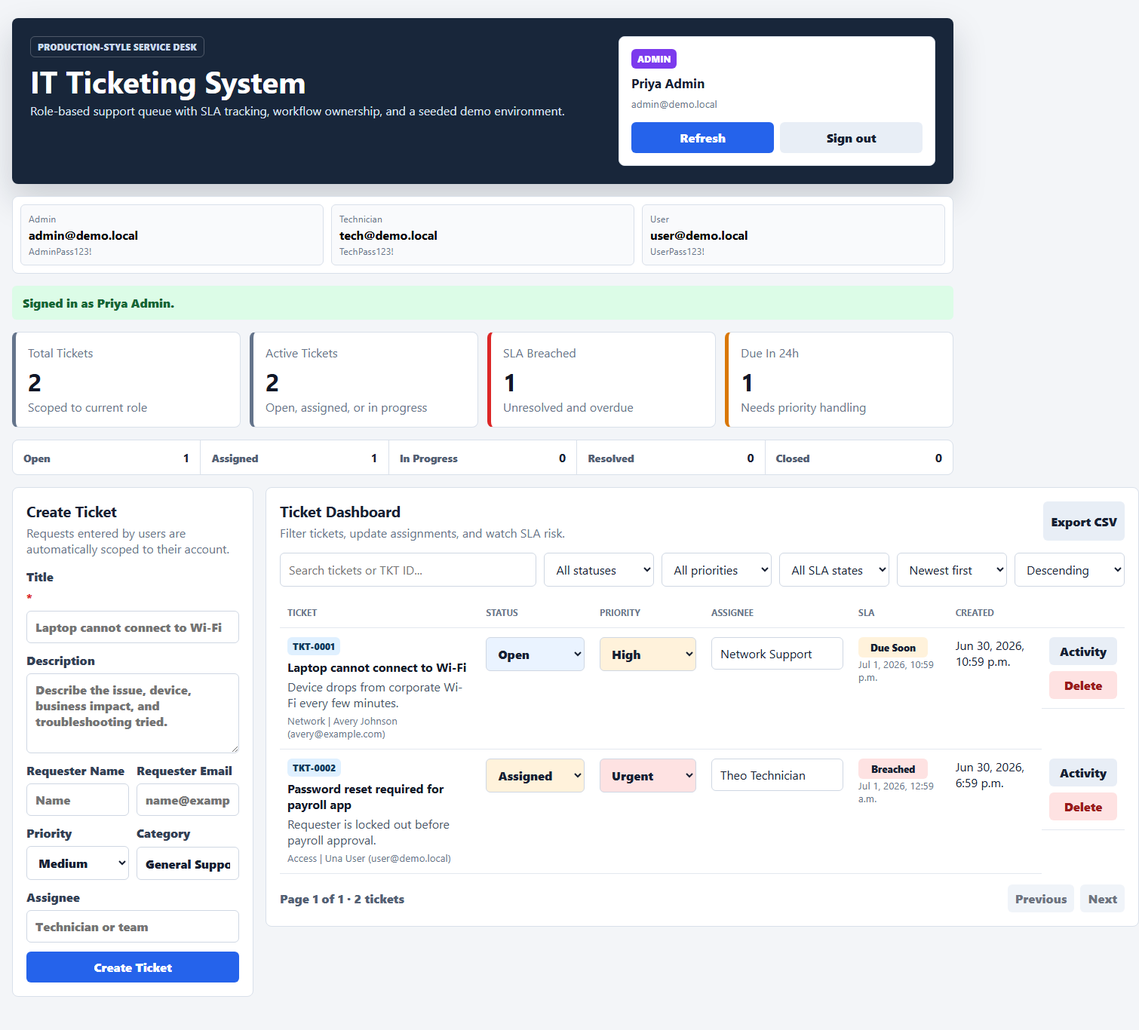
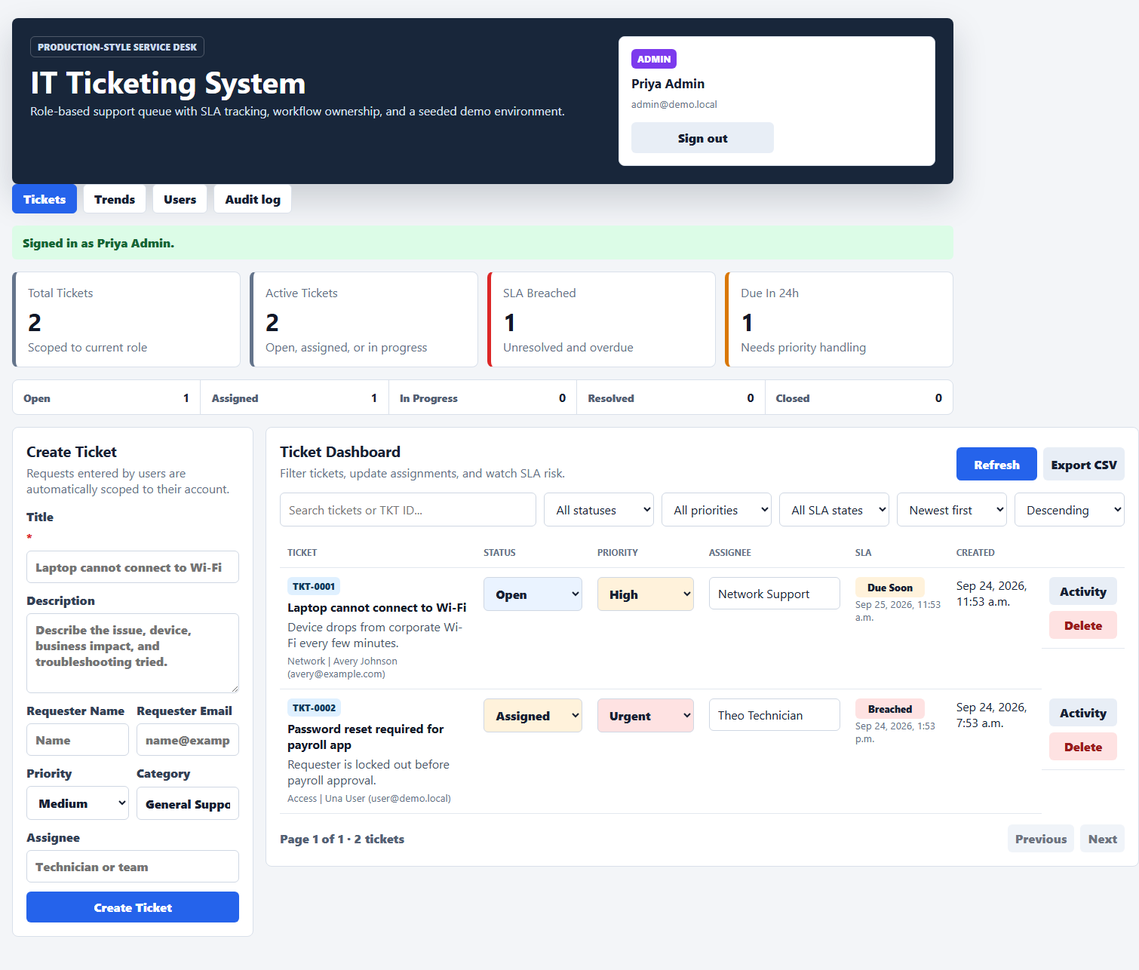
docs: README rewrite with an animated demo, measured numbers and current screenshots; v2.0.0
The demo is built from Playwright screenshots (scripts/make-demo-gif.py), so it needs no
screen recorder. Screenshots now include trends and a ticket with comments. Version 2.0.0.

diff --git a/tests/visual/capture-demo-frames.spec.ts b/tests/visual/capture-demo-frames.spec.ts
@@ -1,0 +1,63 @@
+import { expect } from '@playwright/test';
+import { test } from '../fixtures/app.fixture';
+
+// The frames of the README's animated demo: create a ticket, assign it, work it through to
+// resolved, then open it to see its history and comments. Run against the mocked API, so
+// every frame is deterministic. `npm run screenshots:demo` writes them to Playwright's
+// `test-results` folder and scripts/make-demo-gif.py joins them into docs/screenshots/demo.gif.
+test('captures the frames of the demo animation', async ({
+  page,
+  loginPage,
+  dashboardPage,
+  detailPage,
+}, testInfo) => {
+  await page.setViewportSize({ width: 1180, height: 900 });
+  const frame = (name: string) =>
+    page.screenshot({ path: testInfo.outputPath(`frame-${name}.png`) });
+  // Runs an edit and waits for the server's answer and the reload that follows it, so the next
+  // edit starts from the ticket as saved. (A person takes longer than this between edits.)
+  const saved = async (edit: () => Promise<void>) => {
+    const patched = page.waitForResponse((r) => r.request().method() === 'PATCH');
+    const reloaded = page.waitForResponse(
+      (r) => r.request().method() === 'GET' && r.url().includes('/api/tickets?')
+    );
+    await edit();
+    await patched;
+    await reloaded;
+  };
+
+  await loginPage.loginAs('admin');
+  await dashboardPage.expectLoaded();
+  await dashboardPage.expectDataLoaded();
+  await frame('1-queue');
+
+  // Create the ticket, showing the form filled in before it is sent.
+  await page.getByTestId('ticket-title').fill('Docking station not detected');
+  await page
+    .getByTestId('ticket-description')
+    .fill('The external monitors stay blank after docking. Started this morning.');
+  await page.getByTestId('ticket-priority').selectOption('high');
+  await page.getByLabel('Category').fill('Hardware');
+  await page.getByTestId('ticket-title').scrollIntoViewIfNeeded();
+  await frame('2-create');
+  await page.getByRole('button', { name: 'Create Ticket' }).click();
+  await dashboardPage.expectSuccess('Ticket created successfully.');
+  await dashboardPage.expectTicketVisible('TKT-0009');
+  await frame('3-created');
+
+  await saved(() => dashboardPage.assignTicket('TKT-0009', 'Theo Technician'));
+  await saved(() => dashboardPage.updateTicketStatus('TKT-0009', 'assigned'));
+  await dashboardPage.expectAssignee('TKT-0009', 'Theo Technician');
+  await frame('4-assigned');
+
+  await saved(() => dashboardPage.updateTicketStatus('TKT-0009', 'in-progress'));
+  await saved(() => dashboardPage.updateTicketStatus('TKT-0009', 'resolved'));
+  await expect(page.getByLabel('Status for TKT-0009')).toHaveValue('resolved');
+  await frame('5-resolved');
+
+  await page.getByRole('link', { name: 'TKT-0009' }).click();
+  await detailPage.expectLoaded('TKT-0009');
+  await detailPage.expectActivityVisible();
+  await page.getByRole('heading', { name: 'Ticket Activity Timeline' }).scrollIntoViewIfNeeded();
+  await frame('6-timeline');
+});

diff --git a/tests/visual/capture-portfolio-screenshots.spec.ts b/tests/visual/capture-portfolio-screenshots.spec.ts
@@ -6,6 +6,8 @@ test('captures role dashboards and workflow screenshots', async ({
   loginPage,
   dashboardPage,
   ticketFormPage,
+  trendsPage,
+  detailPage,
 }, testInfo) => {
   await loginPage.loginAs('admin');
   await page.screenshot({ path: testInfo.outputPath('admin-dashboard.png'), fullPage: true });
@@ -15,6 +17,15 @@ test('captures role dashboards and workflow screenshots', async ({
 
   await dashboardPage.openTicket('TKT-0009');
   await page.screenshot({ path: testInfo.outputPath('ticket-update-flow.png'), fullPage: true });
+
+  // The trends page, and a ticket with its comments (a public reply and a staff-only note).
+  await trendsPage.open();
+  await trendsPage.expectLoaded();
+  await page.screenshot({ path: testInfo.outputPath('trends.png'), fullPage: true });
+  await page.goto('/tickets/665f0f40d5d4f541f8ef1001');
+  await detailPage.expectLoaded('TKT-0001');
+  await detailPage.expectInternalNote('Firmware 4.2 is suspect');
+  await page.screenshot({ path: testInfo.outputPath('ticket-comments.png'), fullPage: true });
 
   await loginPage.logout();
   await loginPage.loginAs('technician');

diff --git a/src/shared/outbox-types.ts b/src/shared/outbox-types.ts
@@ -1,7 +1,7 @@
 import type { CommentVisibility, OutboxEventType } from './ticket-constants';
 
 // What is sent about a ticket when something happens to it. Deliberately small and free of
-// free text a person typed (no descriptions, no comment bodies), because it leaves the system.
+// long text a person typed (no descriptions, no comment bodies), because it leaves the system. The title is the one typed field included; the message writer neutralises anything in it that could ping a channel.
 export interface OutboxPayload {
   ticket: {
     id: string;

diff --git a/scripts/make-demo-gif.py b/scripts/make-demo-gif.py
@@ -1,0 +1,55 @@
+"""Joins the demo frames into docs/screenshots/demo.gif.
+
+    npm run screenshots:demo                        # writes frame-*.png under test-results/
+    python scripts/make-demo-gif.py <frames-dir>    # needs Pillow: pip install pillow
+
+The GIF is built from screenshots (not from a screen recording), so it needs only Pillow,
+not ffmpeg. Each frame is shown for a fixed time and the animation loops.
+"""
+
+from __future__ import annotations
+
+import sys
+from pathlib import Path
+
+from PIL import Image
+
+WIDTH = 900
+# How long each frame stays up, in milliseconds. The last frame (the history) is left longest.
+HOLD_MS = {"1-queue": 1600, "2-create": 2200, "3-created": 1800, "4-assigned": 1800, "5-resolved": 1800, "6-timeline": 3200}
+
+
+def main() -> int:
+    if len(sys.argv) != 2:
+        print(__doc__)
+        return 2
+    folder = Path(sys.argv[1])
+    frames, durations = [], []
+    for name, hold in HOLD_MS.items():
+        matches = sorted(folder.rglob(f"frame-{name}.png"))
+        if not matches:
+            print(f"Missing frame-{name}.png under {folder}")
+            return 1
+        image = Image.open(matches[0]).convert("RGB")
+        height = round(image.height * WIDTH / image.width)
+        image = image.resize((WIDTH, height), Image.LANCZOS)
+        # One shared palette keeps the colours steady between frames and the file small.
+        frames.append(image.quantize(colors=128, method=Image.MEDIANCUT, dither=Image.NONE))
+        durations.append(hold)
+
+    out = Path(__file__).resolve().parent.parent / "docs" / "screenshots" / "demo.gif"
+    frames[0].save(
+        out,
+        save_all=True,
+        append_images=frames[1:],
+        duration=durations,
+        loop=0,
+        optimize=True,
+        disposal=1,
+    )
+    print(f"Wrote {out} ({out.stat().st_size / 1024:.0f} KB, {len(frames)} frames)")
+    return 0
+
+
+if __name__ == "__main__":
+    raise SystemExit(main())

diff --git a/README.md b/README.md
@@ -1,35 +1,64 @@
 # IT Ticketing System
 
 [![CI](https://github.com/proyneon-hub/it-ticketing-system/actions/workflows/ci.yml/badge.svg)](https://github.com/proyneon-hub/it-ticketing-system/actions/workflows/ci.yml)
+[![CodeQL](https://github.com/proyneon-hub/it-ticketing-system/actions/workflows/codeql.yml/badge.svg)](https://github.com/proyneon-hub/it-ticketing-system/actions/workflows/codeql.yml)
 [![Coverage](https://img.shields.io/endpoint?url=https%3A%2F%2Fproyneon-hub.github.io%2Fit-ticketing-system%2Fcoverage.json)](https://proyneon-hub.github.io/it-ticketing-system/)
 [![License: MIT](https://img.shields.io/badge/license-MIT-blue.svg)](LICENSE)
 
-A role-based IT service desk with SLA tracking, built and tested the way a production service would be: a layered TypeScript/Express API on MongoDB, a TypeScript React client, an OpenAPI contract, 722 automated tests across six layers, a Dockerised stack, and the operational tooling a support team needs to trace a user's error to a log line.
+A role-based IT service desk with SLA tracking, built and tested the way a production service would be: a layered TypeScript/Express API on MongoDB, a TypeScript React client, an OpenAPI contract, 723 automated tests across six layers, a Dockerised stack with metrics, and the operational tooling a support team needs to trace a user's error to a log line.
 
-**[Live demo](https://it-ticketing-system-pi.vercel.app/)** · **[API docs](https://it-ticketing-system-pi.vercel.app/api/docs)** · **[Test and coverage reports](https://proyneon-hub.github.io/it-ticketing-system/)** · **[Defect log](docs/DEFECT_LOG.md)**
+**[Live demo](https://it-ticketing-system-pi.vercel.app/)** · **[API docs](https://it-ticketing-system-pi.vercel.app/api/docs)** · **[Test and coverage reports](https://proyneon-hub.github.io/it-ticketing-system/)** · **[Defect log](docs/DEFECT_LOG.md)** · **[Decision records](docs/adr)**
 
-![Admin dashboard](docs/screenshots/admin-dashboard.png)
+![Creating a ticket, assigning it, working it to resolved and reading its history](docs/screenshots/demo.gif)
 
-## What this project demonstrates
+## What it does
 
-| Building software                                                                                          | Testing and quality                                                                                                           | Operating and supporting                                                                                           |
-| ---------------------------------------------------------------------------------------------------------- | ----------------------------------------------------------------------------------------------------------------------------- | ------------------------------------------------------------------------------------------------------------------ |
-| API split into routes, Zod validation, services and models, so business rules are testable on their own    | 722 tests in six layers, including API tests on a real (in-memory) MongoDB and a Docker Compose smoke run with nothing mocked | Every request has an id that appears in the response, the JSON logs and the error a user sees                      |
-| Typed React client with real routes, cached server state and optimistic edits that roll back on a conflict | 18 real defects found, each pinned by a regression test that fails without the fix ([Defect log](docs/DEFECT_LOG.md))         | Separate liveness (`/api/health`) and readiness (`/api/ready`) probes; a non-root Docker image with a health check |
-| OpenAPI 3.1 spec, served as interactive docs and enforced by contract tests                                | Coverage thresholds, lint and audit gate every pull request                                                                   | A runbook, and Python monitoring scripts that check health, sign-in and the ticket API on a schedule               |
-| Role-based access enforced in the API and in the database query, not just the UI                           | Playwright page objects, typed fixtures, three browsers and Axe accessibility checks                                          | Structured releases: Docker image to GHCR, Dependabot, reports published to GitHub Pages                           |
+- **Three roles.** Requesters see and edit only their own tickets; technicians work the whole queue; admins also delete tickets, manage roles and read the audit log.
+- **A workflow the API enforces.** `open`, `assigned`, `in-progress`, `resolved`, `closed`, with an explicit table of legal moves, an assignee rule and versioned edits.
+- **SLA tracking and escalation.** Every priority has a deadline. A scheduled job marks tickets that are close to or past it, and raises an overdue ticket's priority once.
+- **Comments and internal notes.** Staff can reply publicly or leave a staff-only note; a requester never receives one.
+- **Trends.** Opened and resolved per day, mean time to resolve and SLA compliance, in the viewer's time zone.
+- **Notifications.** Ticket events go to a Discord, Slack or JSON webhook through a transactional outbox.
+- **Search and export.** Ranked full-text search, filters, sorting, and a CSV export that streams.
+
+| Building software                                                                                          | Testing and quality                                                                                                           | Operating and supporting                                                                                                            |
+| ---------------------------------------------------------------------------------------------------------- | ----------------------------------------------------------------------------------------------------------------------------- | ----------------------------------------------------------------------------------------------------------------------------------- |
+| API split into routes, Zod validation, services and models, so business rules are testable on their own    | 723 tests in six layers, including API tests on a real (in-memory) MongoDB and a Docker Compose smoke run with nothing mocked | Every request has an id that appears in the response, the JSON logs and the error a user sees                                       |
+| Typed React client with real routes, cached server state and optimistic edits that roll back on a conflict | 19 real defects found, each pinned by a regression test that fails without the fix ([Defect log](docs/DEFECT_LOG.md))         | Prometheus metrics with a provisioned Grafana dashboard, liveness and readiness probes, a non-root Docker image with a health check |
+| OpenAPI 3.1 spec, served as interactive docs and enforced by contract tests                                | Coverage thresholds, lint, CodeQL and audit gate every pull request                                                           | A runbook, and an hourly check of the live site that opens an incident issue when it fails and closes it on recovery                |
+| Role-based access enforced in the API and in the database query, not just the UI                           | Playwright page objects, typed fixtures, three browsers and Axe accessibility checks                                          | A staged pipeline that publishes the image and smoke-tests the deployed site; Dependabot; reports published to GitHub Pages         |
+
+## By the numbers
+
+Every figure comes from a run you can repeat; the source is in the last column.
+
+| What                     | Value                                                                                         | Source                                                                                        |
+| ------------------------ | --------------------------------------------------------------------------------------------- | --------------------------------------------------------------------------------------------- |
+| Automated tests          | 723 (443 API, 193 client, 42 mocked browser, 8 accessibility, 16 real-stack smoke, 21 pytest) | `npm run test:coverage`, `npm run test:e2e`, `pytest`                                         |
+| Browser runs per push    | 150 (126 regression and 24 Axe, in Chromium, Firefox and WebKit)                              | `npx playwright test --list`                                                                  |
+| Coverage (statements)    | 96.7% API, 93.6% client                                                                       | `npm run test:coverage`, thresholds enforced in CI                                            |
+| API operations           | 25, every one exercised against its OpenAPI schema                                            | `src/server/openapi.json`, contract test                                                      |
+| Defects found and fixed  | 19, each with a regression test                                                               | [DEFECT_LOG.md](docs/DEFECT_LOG.md)                                                           |
+| Search on 10,000 tickets | p50 68.5 ms to 9.2 ms, p95 112.6 ms to 14.4 ms after the switch to a text index               | [PERFORMANCE.md](docs/PERFORMANCE.md), raw k6 runs in `perf/`                                 |
+| Sign-in cost             | 85 ms at the median (argon2id), and it lowers overall throughput; not yet fixed               | [PERFORMANCE.md](docs/PERFORMANCE.md#final-run-after-authentication-transactions-and-metrics) |
+| Client bundle            | 676 kB, 193 kB gzipped (React 19, one chunk)                                                  | `npm run build`                                                                               |
+| Decision records         | 8                                                                                             | [docs/adr](docs/adr)                                                                          |
 
 ## Try it
 
 The [live demo](https://it-ticketing-system-pi.vercel.app/) shows the demo accounts on the page. Click one to sign in and compare what each role can do:
 
-| Role       | What to try                                                                |
-| ---------- | -------------------------------------------------------------------------- |
-| Admin      | The whole queue, workflow changes, assignment and **Delete**               |
-| Technician | The whole queue and workflow changes, but no delete                        |
-| Requester  | Only your own tickets; create a ticket, but status and assignee are locked |
+| Role       | What to try                                                                                      |
+| ---------- | ------------------------------------------------------------------------------------------------ |
+| Admin      | The whole queue, workflow changes, **Delete**, **Trends**, **Users** and the **Audit log**       |
+| Technician | The queue and workflow changes, comments with **internal notes**, and **Trends**, but no delete  |
+| Requester  | Only your own tickets; create one and comment on it, and see that you never get an internal note |
 
-Things worth poking at: sort by priority (it ranks by severity, not alphabetically), filter by SLA state, open a ticket's **Activity** timeline, **Export CSV**, and trigger an error to see the support reference under it.
+Things worth poking at: open a ticket (its number is a link), leave an internal note and then sign in as the requester to check it is not there, sort by priority (it ranks by severity, not alphabetically), change a status twice in a row, **Export CSV**, and trigger an error to see the support reference under it.
+
+![A ticket with a public reply, an internal note and its history](docs/screenshots/ticket-comments.png)
+
+![Trends: opened and resolved per day](docs/screenshots/trends.png)
 
 ## Run it locally
 
@@ -40,7 +69,13 @@ docker compose up --build --wait
 docker compose run --rm seed        # optional demo tickets
 ```
 
-Open <http://localhost:5000> (API docs at `/api/docs`).
+Open <http://localhost:5000> (API docs at `/api/docs`). To also run Prometheus and Grafana (dashboard at <http://localhost:3000>, admin / admin, local use only):
+
+```bash
+docker compose -f docker-compose.yml -f docker-compose.observability.yml up --build --detach --wait
+```
+
+The scheduled jobs and webhook notifications are off until you set `CRON_SECRET` and `WEBHOOK_URL` (see [`.env.example`](.env.example) and the [runbook](docs/RUNBOOK.md#scheduled-jobs-and-notifications)); `docker compose --profile worker up worker` runs them on a timer.
 
 Without Docker (Node.js 24; `.nvmrc` is included):
 
@@ -53,14 +88,15 @@ npm run seed && npm run dev   # terminal 2: API and Vite, then open http://local
 
 ## Engineering highlights
 
-- **Bugs found by tests, not luck.** Running the new integration tests against the previous commit failed 16 of 44, exposing alphabetical priority sorting, an SLA filter that silently replaced the status filter, and a requester being able to reassign their own ticket into another user's queue ([DEF-001 to DEF-017](docs/DEFECT_LOG.md)).
+- **Bugs found by tests, not luck.** Running the new integration tests against the previous commit failed 16 of 44, exposing alphabetical priority sorting, an SLA filter that silently replaced the status filter, and a requester being able to reassign their own ticket into another user's queue ([DEF-001 to DEF-019](docs/DEFECT_LOG.md)).
 - **A bug every mock missed.** The real-stack smoke test caught a regression that all 66 mocked browser runs and 88 unit tests passed: sign-in returns the user as `id`, `/auth/me` returns `sub`, and the mocks had used `sub` for both. The fix, and the fidelity rule that came out of it, are in [ADR 002](docs/adr/002-layered-test-strategy.md).
-- **A workflow the API enforces.** Status moves follow an explicit transition table shared by the API and the UI; an illegal move is a `409`. Edits are atomic and versioned: `If-Match` refuses a stale edit, and a lost race can never write an activity entry built from out-of-date data ([API notes](docs/API.md#editing-a-ticket-safely)).
-- **Measured, not claimed.** Replacing a regex search with a text index cut search from 68 ms to 9 ms (p50) and 113 ms to 14 ms (p95) on 10,000 tickets, and the method, the raw k6 runs and the trade-off (whole words, not fragments) are in [PERFORMANCE.md](docs/PERFORMANCE.md).
+- **A workflow the API enforces.** Status moves follow an explicit transition table shared by the API and the UI; an illegal move is a `409`. Edits are atomic and versioned: `If-Match` refuses a stale edit, and a lost race can never write an activity entry built from out-of-date data ([ADR 005](docs/adr/005-workflow-state-machine-and-optimistic-concurrency.md), [API notes](docs/API.md#editing-a-ticket-safely)).
+- **Measured, not claimed.** Replacing a regex search with a text index cut search from 68 ms to 9 ms (p50) and 113 ms to 14 ms (p95) on 10,000 tickets. The same document also records what got slower afterwards (real password hashing, transactions) and that the sign-in cost is not yet fixed ([PERFORMANCE.md](docs/PERFORMANCE.md), [ADR 007](docs/adr/007-text-search.md)).
 - **Layers that are enforced.** Routes, services, a pure domain layer and a repository each have one job, and a test fails the build if a route touches the database or the domain imports a framework ([Architecture](docs/ARCHITECTURE.md#backend)).
-- **Sessions that survive theft attempts.** Refresh tokens are single use and rotate, so replaying a used one ends the whole session and is audited; two admins demoting each other at the same instant cannot leave the system with none (a test reproduces the failure when the guard is removed). The [threat model](docs/SECURITY_NOTES.md#threat-model) lists what is and is not covered.
-- **Notifications that cannot get out of step with the data.** A ticket change and the event announcing it are written in one MongoDB transaction and sent later by a worker that claims events atomically, retries with backoff and marks an event dead after six attempts; tests force each failure, including two workers racing and a rolled-back change ([Architecture](docs/ARCHITECTURE.md#backend), [Security notes](docs/SECURITY_NOTES.md#scheduled-jobs-and-notifications)).
-- **Docs that cannot drift.** A contract test validates every real API response against the OpenAPI schemas and fails if an operation is added without being exercised; another compares the documented request bodies with the Zod schemas the API enforces.
+- **Sessions that survive theft attempts.** Refresh tokens are single use and rotate, so replaying a used one ends the whole session and is audited; two admins demoting each other at the same instant cannot leave the system with none (a test reproduces the failure when the guard is removed). The [threat model](docs/SECURITY_NOTES.md#threat-model) lists what is and is not covered ([ADR 004](docs/adr/004-authentication-and-sessions.md)).
+- **Notifications that cannot get out of step with the data.** A ticket change and the event announcing it are written in one MongoDB transaction and sent later by a worker that claims events atomically, retries with backoff and marks an event dead after six attempts; tests force each failure, including two workers racing and a rolled-back change ([ADR 006](docs/adr/006-transactional-outbox.md)).
+- **Confidentiality tested from the outside.** A requester never receives an internal note from any endpoint (list, ticket, edit response, export), and the test was checked to fail when the filtering is removed. Notification messages carry no comment text or description, and a hostile ticket title cannot ping a channel.
+- **Docs that cannot drift.** A contract test validates every real API response against the OpenAPI schemas and fails if an operation is added without being exercised; another compares the documented request bodies with the Zod schemas the API enforces; a third checks that the Grafana dashboard only queries metrics the API exports.
 - **Support-friendly by design.** A user sees `Reference: <id>`; `grep <id>` finds the request and, for a failure, its stack ([ADR 003](docs/adr/003-operability-and-request-tracing.md), [runbook](docs/RUNBOOK.md#tracing-a-user-reported-error)).
 - **Security that fits a demo honestly.** Helmet and a strict CSP, failed-login rate limiting that never locks out demo visitors, CSV formula neutralisation, and a plain list of what is not production-grade ([Security notes](docs/SECURITY_NOTES.md)).
 
@@ -69,14 +105,29 @@ npm run seed && npm run dev   # terminal 2: API and Vite, then open http://local
 ```mermaid
 flowchart LR
   Browser --> Client[React client<br/>router, queries, components]
-  Client -->|/api| Edge[Request id, logs,<br/>helmet, CORS]
+  Client -->|/api| Edge[Request id, logs, metrics,<br/>helmet, CORS]
   Edge --> Routes[Routes and Zod validation]
-  Routes --> Services[Ticket service<br/>roles, SLA, activity]
-  Services --> DB[(MongoDB)]
-  Edge --> Ops["/health, /ready, /docs"]
+  Routes --> Services[Services<br/>roles, workflow, SLA, activity]
+  Services --> DB[(MongoDB<br/>replica set)]
+  Services -->|same transaction| Outbox[(Outbox)]
+  Cron[Scheduler or worker<br/>every 30 min] -->|CRON_SECRET| Jobs[Jobs: SLA escalation,<br/>outbox delivery]
+  Jobs --> DB
+  Jobs -->|retries with backoff| Hook[Discord, Slack or JSON webhook]
+  Edge --> Ops["/health, /ready, /docs, /metrics"]
+  Ops --> Prom[Prometheus and Grafana]
+  Health[Hourly health check] -->|opens or closes| Issue[GitHub incident issue]
 ```
 
-Details: [Architecture](docs/ARCHITECTURE.md) and the three [decision records](docs/adr).
+```mermaid
+flowchart LR
+  Push[Pull request or push] --> Lint[Lint, types, actionlint] --> Unit --> Integration --> Build
+  Build --> Browser[Browser tests, real-stack smoke, metrics stack]
+  Browser --> Image[Docker image to GHCR]
+  Image --> Live[Live smoke of the deployed site<br/>after approval]
+  Push --> CodeQL
+```
+
+Details: [Architecture](docs/ARCHITECTURE.md) and the eight [decision records](docs/adr).
 
 ## Test strategy
 
@@ -130,7 +181,7 @@ docs/             Architecture, decisions, test plan, runbook, security notes, d
 
 ## Documentation
 
-- [Architecture](docs/ARCHITECTURE.md) and [decision records](docs/adr)
+- [Architecture](docs/ARCHITECTURE.md) and the [decision records](docs/adr): [001 document model](docs/adr/001-ticket-document-model.md), [002 test strategy](docs/adr/002-layered-test-strategy.md), [003 operability](docs/adr/003-operability-and-request-tracing.md), [004 authentication](docs/adr/004-authentication-and-sessions.md), [005 workflow and concurrency](docs/adr/005-workflow-state-machine-and-optimistic-concurrency.md), [006 outbox](docs/adr/006-transactional-outbox.md), [007 text search](docs/adr/007-text-search.md), [008 TypeScript build and Vitest](docs/adr/008-typescript-build-and-vitest.md)
 - [API reference](docs/API.md) (interactive version at `/api/docs`)
 - [Test plan](docs/TEST_PLAN.md), [automated cases](docs/TEST_CASES.md), [QA architecture](docs/QA_ARCHITECTURE.md), [live smoke testing](docs/LIVE_SMOKE_TESTING.md), [accessibility testing](docs/ACCESSIBILITY_TESTING.md)
 - [Defect log](docs/DEFECT_LOG.md) and [performance](docs/PERFORMANCE.md)
@@ -139,10 +190,11 @@ docs/             Architecture, decisions, test plan, runbook, security notes, d
 
 ## Security and limitations
 
-Users are stored with argon2id password hashes, sessions use 15-minute access tokens plus single-use refresh tokens in an `HttpOnly` cookie, and security events are audited. It is still a demo: the three demo accounts' passwords are public, and there is no registration, password reset or MFA. In production the API refuses to sign or accept tokens unless `AUTH_SECRET` is at least 32 characters. [Security notes](docs/SECURITY_NOTES.md) lists what is implemented, what is not, and what a production version would add.
+Users are stored with argon2id password hashes, sessions use 15-minute access tokens plus single-use refresh tokens in an `HttpOnly` cookie, and security events are audited. It is still a demo: the three demo accounts' passwords are public, and there is no registration, password reset or MFA. In production the API refuses to sign or accept tokens unless `AUTH_SECRET` is at least 32 characters. Known gaps that matter: password hashing runs on the main thread and slows other requests during a burst of sign-ins ([measured](docs/PERFORMANCE.md)), the sign-in rate limit is per instance, and metrics describe one process, so they are meaningful for the container deployment, not for serverless. [Security notes](docs/SECURITY_NOTES.md) lists what is implemented, what is not, and what a production version would add.
 
 ## Roadmap
 
+- Move password hashing off the event loop (a worker thread or a native binding), verified with the same k6 script
 - An OIDC provider and MFA in place of the demo accounts
 - Saved filters and reporting views
 - A shared rate-limit store for multi-instance deployments

diff --git a/docs/TEST_PLAN.md b/docs/TEST_PLAN.md
@@ -72,7 +72,7 @@ Out of scope for the demo:
 | Comments and internal notes: a requester never receives one                                                           | `comments.integration.test.ts` (every endpoint), `comments.test.ts`, `CommentThread.test.tsx`, `tests/e2e-mocked/comments.spec.ts`, `tests/smoke-live/comments-trends.spec.ts` |
 | Trends: per-day counts, time zones, mean time to resolve, SLA compliance                                              | `trends.test.ts` (windows, DST), `trends.integration.test.ts` (hand-computed, fixed clock), `TrendChart.test.tsx`, `tests/e2e-mocked/trends.spec.ts`                           |
 | SLA escalation: once per ticket, fixed clock, safe to rerun and to run at the same time                               | `slaEscalation.test.ts`, `sla.integration.test.ts`, `tests/smoke-live/jobs.spec.ts`                                                                                            |
-| Outbox: atomic with the change, retries, dead events, no double sends, no free text                                   | `outbox.test.ts`, `outbox.integration.test.ts` (stub webhook, forced failures, concurrent workers), `cronAuth.test.ts`                                                         |
+| Outbox: atomic with the change, retries, dead events, no double sends, no comment text                                | `outbox.test.ts`, `outbox.integration.test.ts` (stub webhook, forced failures, concurrent workers), `cronAuth.test.ts`                                                         |
 | Metrics: who may read them, bounded route labels, counters, and dashboard and Prometheus config in step with the code | `metrics.test.ts`, `metrics.integration.test.ts`, `observability.test.ts`, the `observability` job in `ci.yml` (boots Prometheus and Grafana)                                  |
 | Incident issues from the hourly health check: severity, wording, recovery                                             | `test_monitor.py`, the `support-ops-health-check.yml` workflow                                                                                                                 |
 | Accessibility                                                                                                         | `tests/accessibility/` and the manual checklist in [ACCESSIBILITY_TESTING.md](ACCESSIBILITY_TESTING.md)                                                                        |

diff --git a/docs/SECURITY_NOTES.md b/docs/SECURITY_NOTES.md
@@ -29,7 +29,7 @@ Security events go to an `auditevents` collection: sign-in success and failure, 
 ## Scheduled jobs and notifications
 
 - **Jobs are behind a shared secret.** `POST /api/jobs/*` needs `Authorization: Bearer <CRON_SECRET>`, compared in constant time. A missing or short secret turns the jobs off (503) rather than leaving them open, and a signed-in admin's token does not work: the scheduler and the users are separate credentials.
-- **Notifications carry no free text.** An event holds the ticket number, title, status, priority, assignee and who acted, and for a comment only whether it was internal, never its text or the ticket description. The webhook usually points at a chat channel, so an internal note cannot be read there by people who may not read it in the app.
+- **Notifications carry no comment text or descriptions.** An event holds the ticket number, title, status, priority, assignee and who acted, and for a comment only whether it was internal, never its text or the ticket description. The webhook usually points at a chat channel, so an internal note cannot be read there by people who may not read it in the app.
 - **A title cannot ping a channel.** Requesters type ticket titles, so the message tells Discord not to notify any mention (`allowed_mentions`) and escapes `<`, `>` and `&` for Slack, which reads `<!channel>` as a command.
 - **The webhook address is a credential** (Discord and Slack URLs carry their own token). It is read from the environment, never stored in the database or logged, and removed from any error text that is kept. Sending refuses redirects, so a receiver cannot bounce the request elsewhere. Only `http` and `https` addresses are accepted.
 - **Metrics are off by default.** `GET /api/metrics` does not exist (the same 404 as any unknown route) unless `METRICS_TOKEN` is set to 32+ characters, and then needs it as a bearer token. Route labels are path templates, never raw URLs, so a scanner cannot inflate the metrics or read ticket ids from them.

diff --git a/docs/screenshots/README.md b/docs/screenshots/README.md
@@ -8,3 +8,15 @@ Images used by the README.
 | `api-docs.png`                                                                                                              | The interactive API docs at `/api/docs`, captured from the production build                                                                                                                                                        |
 
 Regenerate them after any visible UI change.
+
+## The animated demo
+
+`demo.gif` is built from six screenshots taken by a Playwright script against the mocked API (a person creates a ticket, assigns it, works it to resolved, and opens it to read its history), so it is deterministic and needs no screen recorder.
+
+```bash
+npm run screenshots:demo                          # writes frame-*.png under test-results/
+pip install pillow
+python scripts/make-demo-gif.py test-results      # writes docs/screenshots/demo.gif
+```
+
+`trends.png` and `ticket-comments.png` come from `npm run screenshots:portfolio` like the dashboards.
